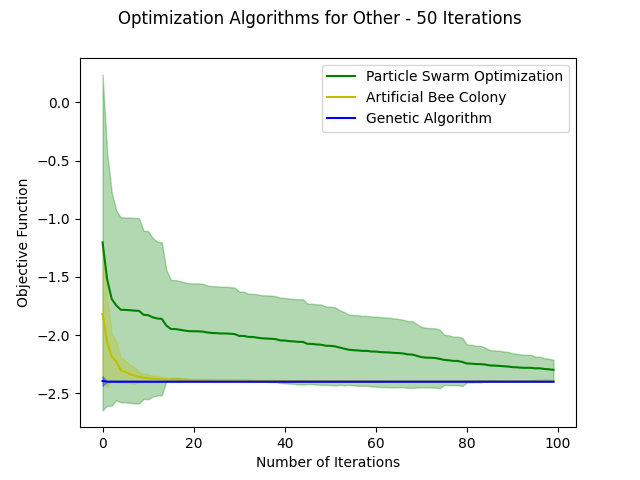
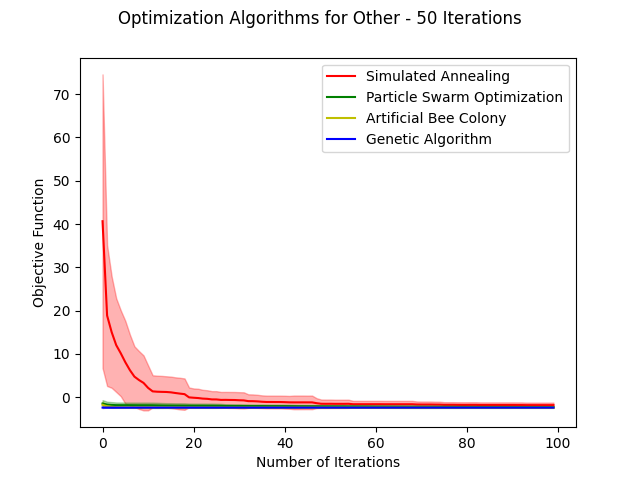
added GA

diff --git a/test_all.py b/test_all.py
@@ -174,7 +174,8 @@ print(f"""
 fig = plt.figure()
 plt.suptitle(f"Optimization Algorithms for Other - {iterNumber} Iterations")
 
-
+plt.plot(range(SA_1.maxIter), SA_mean, 'r-', label='Simulated Annealing')
+plt.fill_between(range(SA_1.maxIter), SA_error_high, SA_error_low, alpha=0.3, edgecolor='r', facecolor='r')
 
 plt.plot(range(PSO_1.maxIter), PSO_mean, 'g-', label='Particle Swarm Optimization')
 plt.fill_between(range(PSO_1.maxIter), PSO_error_high, PSO_error_low, alpha=0.3, edgecolor='g', facecolor='g')

diff --git a/algorithms/genetic_algorithm.py b/algorithms/genetic_algorithm.py
@@ -177,7 +177,7 @@ class GA():
 
     def algorithm(self, f: any, print_output: bool = True):
         """
-        Artificial bee colony algorithm
+        Genetic algorithm
 
         f = Objective function (input a python function)
 
